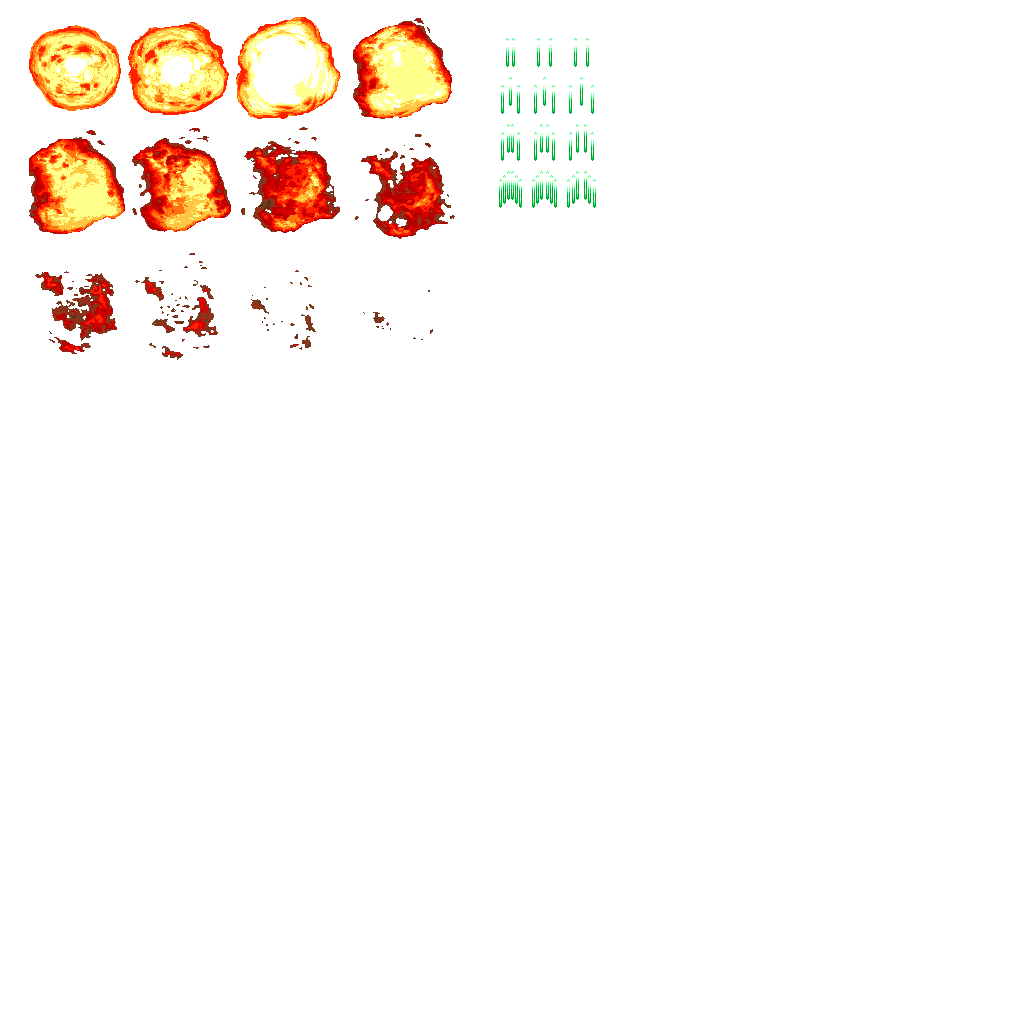
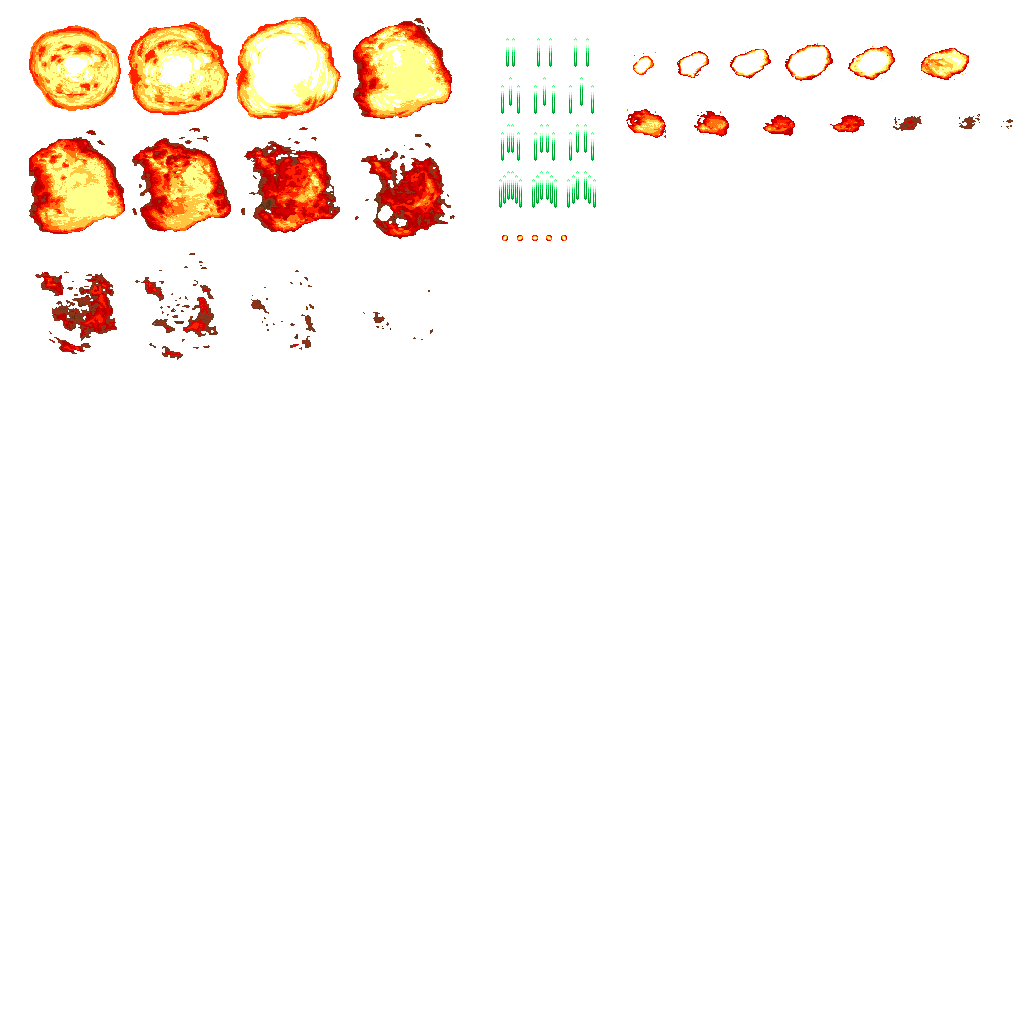
0.4.7.10
Fixed explosion Bug and changed the score you recieve by killing each
enemy. Also updated particles sprite sheet and changed enemies shots

diff --git a/Gunbird 0.4.7 (PowerUp)/Gunbird/ModuleCollision.cpp b/Gunbird 0.4.7 (PowerUp)/Gunbird/ModuleCollision.cpp
@@ -17,18 +17,21 @@ ModuleCollision::ModuleCollision()
 	matrix[COLLIDER_PLAYER][COLLIDER_WALL] = true;
 	matrix[COLLIDER_PLAYER][COLLIDER_PLAYER] = false;
 	matrix[COLLIDER_PLAYER][COLLIDER_ENEMY] = true;
+	matrix[COLLIDER_PLAYER][COLLIDER_BALLOON] = true;
 	matrix[COLLIDER_PLAYER][COLLIDER_PLAYER_SHOT] = false;
 	matrix[COLLIDER_PLAYER][COLLIDER_ENEMY_SHOT] = true;
 
 	matrix[COLLIDER_ENEMY][COLLIDER_WALL] = false;
 	matrix[COLLIDER_ENEMY][COLLIDER_PLAYER] = true;
 	matrix[COLLIDER_ENEMY][COLLIDER_ENEMY] = false;
+	matrix[COLLIDER_ENEMY][COLLIDER_BALLOON] = false;
 	matrix[COLLIDER_ENEMY][COLLIDER_PLAYER_SHOT] = true;
 	matrix[COLLIDER_ENEMY][COLLIDER_ENEMY_SHOT] = false;
 
 	matrix[COLLIDER_PLAYER_SHOT][COLLIDER_WALL] = true;
 	matrix[COLLIDER_PLAYER_SHOT][COLLIDER_PLAYER] = false;
 	matrix[COLLIDER_PLAYER_SHOT][COLLIDER_ENEMY] = true;
+	matrix[COLLIDER_PLAYER_SHOT][COLLIDER_BALLOON] = true;
 	matrix[COLLIDER_PLAYER_SHOT][COLLIDER_PLAYER_SHOT] = false;
 	matrix[COLLIDER_PLAYER_SHOT][COLLIDER_ENEMY_SHOT] = false;
 	matrix[COLLIDER_PLAYER_SHOT][COLLIDER_POWER_UP] = false;
@@ -36,14 +39,22 @@ ModuleCollision::ModuleCollision()
 	matrix[COLLIDER_ENEMY_SHOT][COLLIDER_WALL] = true;
 	matrix[COLLIDER_ENEMY_SHOT][COLLIDER_PLAYER] = true;
 	matrix[COLLIDER_ENEMY_SHOT][COLLIDER_ENEMY] = false;
+	matrix[COLLIDER_ENEMY_SHOT][COLLIDER_BALLOON] = false;
 	matrix[COLLIDER_ENEMY_SHOT][COLLIDER_PLAYER_SHOT] = false;
 	matrix[COLLIDER_ENEMY_SHOT][COLLIDER_ENEMY_SHOT] = false;
 
 	matrix[COLLIDER_POWER_UP][COLLIDER_WALL] = false;
 	matrix[COLLIDER_POWER_UP][COLLIDER_PLAYER] = true;
 	matrix[COLLIDER_POWER_UP][COLLIDER_ENEMY] = false;
+	matrix[COLLIDER_POWER_UP][COLLIDER_BALLOON] = false;
 	matrix[COLLIDER_POWER_UP][COLLIDER_PLAYER_SHOT] = false;
 	matrix[COLLIDER_POWER_UP][COLLIDER_ENEMY_SHOT] = false;
+
+	matrix[COLLIDER_BALLOON][COLLIDER_WALL] = false;
+	matrix[COLLIDER_BALLOON][COLLIDER_PLAYER] = true;
+	matrix[COLLIDER_BALLOON][COLLIDER_ENEMY] = false;
+	matrix[COLLIDER_BALLOON][COLLIDER_PLAYER_SHOT] = true;
+	matrix[COLLIDER_BALLOON][COLLIDER_ENEMY_SHOT] = false;
 }
 
 // Destructor
@@ -133,6 +144,9 @@ void ModuleCollision::DebugDraw()
 			App->render->DrawQuad(colliders[i]->rect, 0, 255, 0, alpha);
 			break;
 		case COLLIDER_ENEMY: // red
+			App->render->DrawQuad(colliders[i]->rect, 255, 0, 0, alpha);
+			break;
+		case COLLIDER_BALLOON: // red
 			App->render->DrawQuad(colliders[i]->rect, 255, 0, 0, alpha);
 			break;
 		case COLLIDER_PLAYER_SHOT: // yellow

diff --git a/Gunbird 0.4.7 (PowerUp)/Gunbird/ModuleParticles.cpp b/Gunbird 0.4.7 (PowerUp)/Gunbird/ModuleParticles.cpp
@@ -39,11 +39,16 @@ bool ModuleParticles::Start()
 	laser2.life = 2000;
 	laser2.speed.y = -5;
 
-	enemy_shoot.anim.PushBack({ 537, 38, 15, 29 });
+	enemy_shoot.anim.PushBack({ 502, 235, 6,6 });
+	enemy_shoot.anim.PushBack({ 517, 235, 6,6 });
+	enemy_shoot.anim.PushBack({ 532, 235, 6,6 });
+	enemy_shoot.anim.PushBack({ 546, 235, 6,6 });
+	enemy_shoot.anim.PushBack({ 561, 235, 6,6 });
+
 	enemy_shoot.anim.loop = true;
 	enemy_shoot.anim.speed = 0.3f;
 	enemy_shoot.life = 2000;
-	enemy_shoot.speed.y = 5;
+	enemy_shoot.speed.y = 0.5f;
 
 
 
@@ -60,10 +65,26 @@ bool ModuleParticles::Start()
 	explosion.anim.PushBack({231, 258, 105, 105 });
 	explosion.anim.PushBack({ 345, 263, 105, 105 });
 
+	littleexplosion.anim.PushBack({ 620,46,48,38 });
+	littleexplosion.anim.PushBack({ 669,46,48,38 });
+	littleexplosion.anim.PushBack({ 726,45,48,38 });
+	littleexplosion.anim.PushBack({ 785,43,48,38 });
+	littleexplosion.anim.PushBack({ 848,44,48,38 });
+	littleexplosion.anim.PushBack({ 921,45,48,38 });
+	littleexplosion.anim.PushBack({ 622,104,48,38 });
+	littleexplosion.anim.PushBack({ 689,105,48,38 });
+	littleexplosion.anim.PushBack({ 755,107,48,38 });
+	littleexplosion.anim.PushBack({ 824,105,48,38 });
+	littleexplosion.anim.PushBack({ 883,105,48,38 });
+	littleexplosion.anim.PushBack({ 946,102,48,38 });
+	littleexplosion.anim.PushBack({ 982,105,48,38 });
+	littleexplosion.anim.speed = 0.1f;
+
 
 
 	explosion.anim.loop = false;
-	explosion.anim.speed = 0.3f;
+	littleexplosion.anim.loop = false;
+	explosion.anim.speed = 0.1f;
 
 
 	return true;

diff --git a/Gunbird 0.4.7 (PowerUp)/Gunbird/ModuleEnemies.cpp b/Gunbird 0.4.7 (PowerUp)/Gunbird/ModuleEnemies.cpp
@@ -160,8 +160,13 @@ void ModuleEnemies::OnCollision(Collider* c1, Collider* c2)
 		if (enemies[i] != nullptr && enemies[i]->GetCollider() == c1)
 		{
 			if (c1->type == COLLIDER_POWER_UP) {}
-			else{
-				App->particles->AddParticle(App->particles->explosion, enemies[i]->position.x, enemies[i]->position.y);
+			else if (c1->type == COLLIDER_BALLOON) {
+				App->particles->AddParticle(App->particles->explosion, enemies[i]->position.x-25, enemies[i]->position.y-25);
+				App->audio->LoadFX("Audio/explosion.wav");
+				App->player->score += 500;
+			}
+			else {
+				App->particles->AddParticle(App->particles->littleexplosion, enemies[i]->position.x - 10, enemies[i]->position.y - 5);
 				App->audio->LoadFX("Audio/explosion.wav");
 				App->player->score += 200;
 			}

diff --git a/Gunbird 0.4.7 (PowerUp)/Gunbird/Enemy_Balloon.cpp b/Gunbird 0.4.7 (PowerUp)/Gunbird/Enemy_Balloon.cpp
@@ -21,7 +21,7 @@ Enemy_Balloon::Enemy_Balloon(int x, int y) : Enemy(x, y)
 	movement.PushBack({ 0.0f,-1.0f }, 100, &fly);
 	movement.PushBack({ 1.0f,-1.0f }, 100, &fly);
 
-	collider = App->collision->AddCollider({ 0, 0, 42,53 }, COLLIDER_TYPE::COLLIDER_ENEMY, (Module*)App->enemies);
+	collider = App->collision->AddCollider({ 0, 0, 42,53 }, COLLIDER_TYPE::COLLIDER_BALLOON, (Module*)App->enemies);
 
 
 	start_time = SDL_GetTicks();

diff --git a/Gunbird 0.4.7 (PowerUp)/Gunbird/Enemy.cpp b/Gunbird 0.4.7 (PowerUp)/Gunbird/Enemy.cpp
@@ -30,8 +30,9 @@ void Enemy::Draw(SDL_Texture* sprites)
 
 void Enemy::OnCollision(Collider* collider)
 {
-	if(collider->type != COLLIDER_TYPE::COLLIDER_POWER_UP){
+	if(collider->type == COLLIDER_TYPE::COLLIDER_POWER_UP){
 		App->particles->AddParticle(App->particles->explosion, position.x, position.y);
 	}
+	
 	
 }

diff --git a/Gunbird 0.4.7 (PowerUp)/Gunbird/ModuleCollision.h b/Gunbird 0.4.7 (PowerUp)/Gunbird/ModuleCollision.h
@@ -11,6 +11,7 @@ enum COLLIDER_TYPE
 	COLLIDER_WALL,
 	COLLIDER_PLAYER,
 	COLLIDER_ENEMY,
+	COLLIDER_BALLOON,
 	COLLIDER_PLAYER_SHOT,
 	COLLIDER_ENEMY_SHOT,
 	COLLIDER_POWER_UP,

diff --git a/Gunbird 0.4.7 (PowerUp)/Gunbird/ModuleParticles.h b/Gunbird 0.4.7 (PowerUp)/Gunbird/ModuleParticles.h
@@ -53,6 +53,7 @@ public:
 	Particle laser;
 	Particle laser2;
 	Particle explosion;
+	Particle littleexplosion;
 	Particle enemy_shoot;
 
 };
